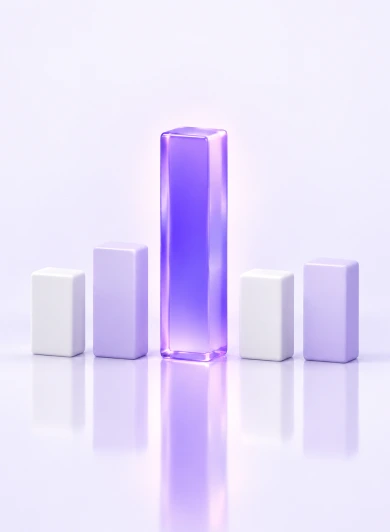
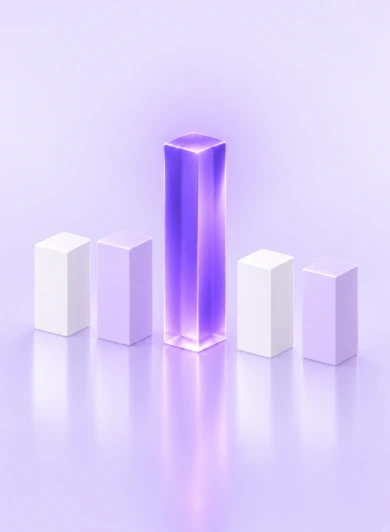
온보딩 캐러셀 2장: 막대그래프 이미지를 다크 시안과 같은 구도로 교체
라이트 이미지를 다크 이미지 기반으로 다시 만들고, 막대 없는 배경 이미지와 막대별 잘라내기 좌표를 새 구도에 맞춤.

문서 반영: Figma 온보딩 캐러셀 Light 2장 hero image 교체

Claude-Session: https://claude.ai/code/session_01SXYzvUDfVU4ENRKLkzUcz7

diff --git a/public/onboarding/index.html b/public/onboarding/index.html
@@ -961,7 +961,7 @@ const BARS_HTML="<div class=\"bcol\" style=\"left:46px;top:255px;width:55px;heig
 const S3MODE=(new URLSearchParams(location.search).get('s3')||'a');
 const PB3MODE=(new URLSearchParams(location.search).get('pb3')||'float');
 
-const PB_BARS=`<div class="rcol" style="left:29px;top:420px;width:60px;height:174px"><i style="background-image:url(pb_hero2.webp);background-size:390px 532px;background-position:-29px -358px;animation-delay:0.1s"></i></div><div class="rcol" style="left:90px;top:423px;width:62px;height:171px"><i style="background-image:url(pb_hero2.webp);background-size:390px 532px;background-position:-90px -361px;animation-delay:0.16s"></i></div><div class="rcol tall" style="left:157px;top:426px;width:75px;height:168px"><i style="background-image:url(pb_hero2.webp);background-size:390px 532px;background-position:-157px -364px;animation-delay:0.22s"></i></div><div class="rcol" style="left:237px;top:426px;width:61px;height:168px"><i style="background-image:url(pb_hero2.webp);background-size:390px 532px;background-position:-237px -364px;animation-delay:0.28s"></i></div><div class="rcol" style="left:300px;top:428px;width:63px;height:166px"><i style="background-image:url(pb_hero2.webp);background-size:390px 532px;background-position:-300px -366px;animation-delay:0.34s"></i></div><div class="bcol" style="left:29px;top:326px;width:60px;height:94px"><i style="background-image:url(pb_hero2.webp);background-size:390px 532px;background-position:-29px -264px;animation-delay:0.1s"></i></div><div class="bcol" style="left:90px;top:301px;width:62px;height:122px"><i style="background-image:url(pb_hero2.webp);background-size:390px 532px;background-position:-90px -239px;animation-delay:0.16s"></i></div><div class="bcol tall" style="left:157px;top:185px;width:75px;height:241px"><i style="background-image:url(pb_hero2.webp);background-size:390px 532px;background-position:-157px -123px;animation-delay:0.22s"><img src="pb_mark.png" alt="" style="position:absolute;left:13px;top:21px;width:36px;height:36px"></i></div><div class="bcol" style="left:237px;top:329px;width:61px;height:97px"><i style="background-image:url(pb_hero2.webp);background-size:390px 532px;background-position:-237px -267px;animation-delay:0.28s"></i></div><div class="bcol" style="left:300px;top:319px;width:63px;height:109px"><i style="background-image:url(pb_hero2.webp);background-size:390px 532px;background-position:-300px -257px;animation-delay:0.34s"></i></div>`;
+const PB_BARS=`<div class="rcol" style="left:32px;top:402px;width:60px;height:192px"><i style="background-image:url(pb_hero2.webp);background-size:390px 532px;background-position:-32px -340px;animation-delay:0.1s"></i></div><div class="rcol" style="left:95px;top:411px;width:59px;height:183px"><i style="background-image:url(pb_hero2.webp);background-size:390px 532px;background-position:-95px -349px;animation-delay:0.16s"></i></div><div class="rcol tall" style="left:160px;top:418px;width:70px;height:176px"><i style="background-image:url(pb_hero2.webp);background-size:390px 532px;background-position:-160px -356px;animation-delay:0.22s"></i></div><div class="rcol" style="left:235px;top:424px;width:61px;height:170px"><i style="background-image:url(pb_hero2.webp);background-size:390px 532px;background-position:-235px -362px;animation-delay:0.28s"></i></div><div class="rcol" style="left:300px;top:431px;width:60px;height:163px"><i style="background-image:url(pb_hero2.webp);background-size:390px 532px;background-position:-300px -369px;animation-delay:0.34s"></i></div><div class="bcol" style="left:32px;top:290px;width:60px;height:112px"><i style="background-image:url(pb_hero2.webp);background-size:390px 532px;background-position:-32px -228px;animation-delay:0.1s"></i></div><div class="bcol" style="left:95px;top:288px;width:59px;height:123px"><i style="background-image:url(pb_hero2.webp);background-size:390px 532px;background-position:-95px -226px;animation-delay:0.16s"></i></div><div class="bcol tall" style="left:160px;top:186px;width:70px;height:232px"><i style="background-image:url(pb_hero2.webp);background-size:390px 532px;background-position:-160px -124px;animation-delay:0.22s"><img src="pb_mark.png" alt="" style="position:absolute;left:10px;top:20px;width:36px;height:36px"></i></div><div class="bcol" style="left:235px;top:307px;width:61px;height:117px"><i style="background-image:url(pb_hero2.webp);background-size:390px 532px;background-position:-235px -245px;animation-delay:0.28s"></i></div><div class="bcol" style="left:300px;top:316px;width:60px;height:115px"><i style="background-image:url(pb_hero2.webp);background-size:390px 532px;background-position:-300px -254px;animation-delay:0.34s"></i></div>`;
 const PB_GLYPH=`<svg class="pbglyph" width="390" height="532" viewBox="0 0 390 532" fill="none"><g opacity=".95" style="filter:drop-shadow(0 1px .75px rgba(5,77,51,.35))"><path fill="#fff" fill-rule="evenodd" transform="matrix(1.9188 -1.4516 -0.0091 1.1745 163.445 167.232)" d="M17.922 17.383v-.002c-.11.008-.677.042-1.942.042-1.01 0-1.721-.03-1.971-.042v.003c-3.888-.171-6.79-.848-6.79-1.658 0-.809 2.902-1.486 6.79-1.66v2.644c.254.018.982.061 1.988.061 1.207 0 1.812-.05 1.925-.06v-2.643c3.88.173 6.775.85 6.775 1.658 0 .81-2.895 1.485-6.775 1.657m0-3.59v-2.366h5.414V7.819H8.595v3.608h5.414v2.365c-4.4.202-7.709 1.074-7.709 2.118 0 1.044 3.309 1.915 7.709 2.118v7.582h3.913v-7.584c4.393-.202 7.694-1.073 7.694-2.116 0-1.043-3.301-1.914-7.694-2.117"/><path fill="#fff" fill-rule="evenodd" transform="matrix(2.0668 1.0786 0.0024 1.0587 155.693 215.402)" d="M17.922 17.383v-.002c-.11.008-.677.042-1.942.042-1.01 0-1.721-.03-1.971-.042v.003c-3.888-.171-6.79-.848-6.79-1.658 0-.809 2.902-1.486 6.79-1.66v2.644c.254.018.982.061 1.988.061 1.207 0 1.812-.05 1.925-.06v-2.643c3.88.173 6.775.85 6.775 1.658 0 .81-2.895 1.485-6.775 1.657m0-3.59v-2.366h5.414V7.819H8.595v3.608h5.414v2.365c-4.4.202-7.709 1.074-7.709 2.118 0 1.044 3.309 1.915 7.709 2.118v7.582h3.913v-7.584c4.393-.202 7.694-1.073 7.694-2.116 0-1.043-3.301-1.914-7.694-2.117"/></g></svg>`;
 function pbFades(h){ return `<div class="pbf-t"></div><div class="pbf-b" style="height:${h}px"></div>`; }
 function heroStagePB(page){
